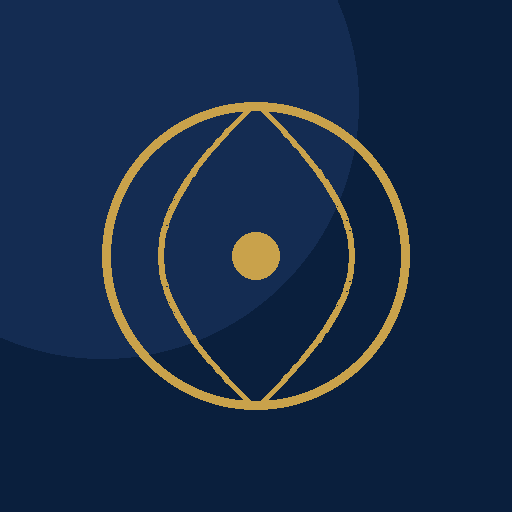
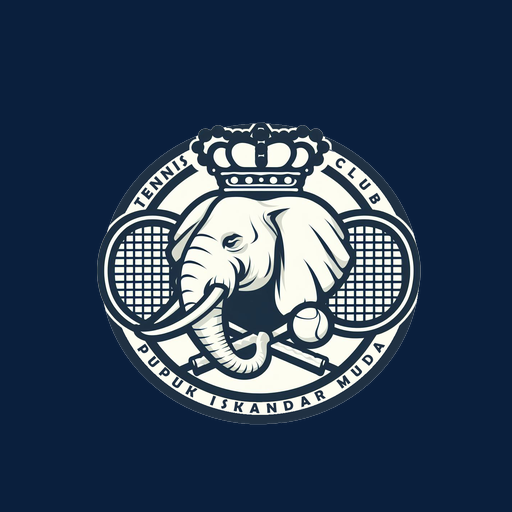
Add files via upload

Changed region(s): [[0.1875, 0.1875, 0.8438, 0.8438]]

diff --git a/js/app.js b/js/app.js
@@ -52,6 +52,7 @@ const getPlayoffs = () => fetchJSON("data/playoffs.json", "playoffs");
 const getLive = () => fetchJSON("data/live.json", "live");
 const getUpdates = () => fetchJSON("data/updates.json", "updates");
 const getLiveStandings = () => fetchJSON("data/live-standings.json", "liveStandings");
+const getSchedule = () => fetchJSON("data/schedule.json", "schedule");
 
 /* --------- Helpers --------- */
 function esc(str) {
@@ -171,7 +172,7 @@ async function renderHome() {
           <a class="ig-cta" id="homeIg" href="#" target="_blank" rel="noopener">Follow us on Instagram &rarr;</a>
         </div>
         <div>
-          <div class="about-photo"><div class="skeleton" style="height:100%"></div></div>
+          <div class="about-photo" id="aboutPhoto"><div class="skeleton" style="height:100%"></div></div>
           <div class="map-frame" id="mapFrame"></div>
         </div>
       </div>
@@ -183,6 +184,9 @@ async function renderHome() {
   document.getElementById("homeAbout").textContent = home.about || "";
   const ig = document.getElementById("homeIg");
   if (home.instagram) ig.href = home.instagram;
+  document.getElementById("aboutPhoto").innerHTML = home.photo
+    ? `<img src="${esc(home.photo)}" alt="${esc(home.name || "PIM Tennis Club")}" loading="lazy">`
+    : `<div class="about-photo-fallback"><img src="icons/logo.png" alt="PIMTC crest" width="140" height="140"></div>`;
   if (home.mapEmbed) {
     document.getElementById("mapFrame").innerHTML = `<iframe src="${esc(home.mapEmbed)}" loading="lazy" title="Club location"></iframe>`;
   }
@@ -334,8 +338,47 @@ function pairStandingsBlock(roundName, groups) {
     </div>`;
 }
 
+function scheduleTable(matches) {
+  const dated = matches.filter((m) => m.date).sort((a, b) => a.date.localeCompare(b.date));
+  const tbc = matches.filter((m) => !m.date);
+
+  const row = (m) => `
+    <tr>
+      <td>${m.date
+        ? `<span class="schedule-date">${esc(m.date)}${m.day ? `<span class="day">${esc(m.day)}</span>` : ""}</span>`
+        : `<span class="schedule-tbc-label">Date TBC</span>`}</td>
+      <td>${m.court ? `<span class="schedule-court">${esc(m.court)}</span>` : ""}</td>
+      <td><span class="schedule-match">${esc(m.team1)}<span class="vs">vs</span>${esc(m.team2)}</span></td>
+    </tr>`;
+
+  return `<table class="schedule-table">
+    <thead><tr><th>Date</th><th>Court</th><th>Match</th></tr></thead>
+    <tbody>${dated.map(row).join("")}${tbc.map(row).join("")}</tbody>
+  </table>`;
+}
+
+function catLabel(cat) {
+  if (cat === "men") return "Men's Tournament";
+  if (cat === "women") return "Women's Tournament";
+  return cat.charAt(0).toUpperCase() + cat.slice(1) + " Tournament";
+}
+
+function orderCats(cats) {
+  const priority = { men: 0, women: 1 };
+  return [...cats].sort((a, b) => (priority[a] ?? 2) - (priority[b] ?? 2) || a.localeCompare(b));
+}
+
+function tabBar(cats) {
+  return `<div class="tab-bar">
+    ${cats.map((c, i) => `<button class="tab-btn ${i === 0 ? "active" : ""}" data-cat="${esc(c)}">${esc(catLabel(c))}</button>`).join("")}
+  </div>`;
+}
+
 async function renderTournaments() {
   const app = document.getElementById("app");
+  const [data, standings] = await Promise.all([getTournaments(), getStandings()]);
+  const cats = orderCats(new Set([...Object.keys(data), ...Object.keys(standings)]));
+
   app.innerHTML = `
     <section class="section-dark section" style="padding-bottom:40px;">
       <div class="wrap">
@@ -345,15 +388,11 @@ async function renderTournaments() {
     </section>
     <section class="section">
       <div class="wrap">
-        <div class="tab-bar">
-          <button class="tab-btn active" data-cat="men">Men's Tournament</button>
-          <button class="tab-btn" data-cat="women">Women's Tournament</button>
-        </div>
+        ${tabBar(cats)}
         <div id="tournBody"><div class="skeleton" style="height:200px"></div></div>
       </div>
     </section>`;
 
-  const [data, standings] = await Promise.all([getTournaments(), getStandings()]);
   const body = document.getElementById("tournBody");
 
   function draw(cat) {
@@ -379,7 +418,9 @@ async function renderTournaments() {
     body.innerHTML = formatStats(fmt) + rulesHtml + standingsHtml;
   }
 
-  draw("men");
+  if (cats.length) draw(cats[0]);
+  else body.innerHTML = `<div class="state-msg">No tournaments published yet.</div>`;
+
   document.querySelectorAll(".tab-btn").forEach((btn) => {
     btn.addEventListener("click", () => {
       document.querySelectorAll(".tab-btn").forEach((b) => b.classList.remove("active"));
@@ -418,6 +459,9 @@ function bracketHTML(playoffs) {
 
 async function renderResults() {
   const app = document.getElementById("app");
+  const [data, playoffs] = await Promise.all([getResults(), getPlayoffs()]);
+  const cats = orderCats(new Set([...Object.keys(data), ...Object.keys(playoffs)]));
+
   app.innerHTML = `
     <section class="section">
       <div class="wrap">
@@ -425,15 +469,11 @@ async function renderResults() {
           <span class="eyebrow">Season Wrap</span>
           <h2>Tournament Results</h2>
         </div>
-        <div class="tab-bar">
-          <button class="tab-btn active" data-cat="men">Men's Tournament</button>
-          <button class="tab-btn" data-cat="women">Women's Tournament</button>
-        </div>
+        ${tabBar(cats)}
         <div id="resultsBody"><div class="skeleton" style="height:140px"></div></div>
       </div>
     </section>`;
 
-  const [data, playoffs] = await Promise.all([getResults(), getPlayoffs()]);
   const body = document.getElementById("resultsBody");
 
   function draw(cat) {
@@ -450,7 +490,9 @@ async function renderResults() {
     body.innerHTML = listHtml + (bracket ? `<div style="margin-top:36px;">${bracket}</div>` : "");
   }
 
-  draw("men");
+  if (cats.length) draw(cats[0]);
+  else body.innerHTML = `<div class="state-msg">No results published yet.</div>`;
+
   document.querySelectorAll(".tab-btn").forEach((btn) => {
     btn.addEventListener("click", () => {
       document.querySelectorAll(".tab-btn").forEach((b) => b.classList.remove("active"));
@@ -482,6 +524,15 @@ async function renderLive() {
         <div id="liveStandingsBody"><div class="skeleton" style="height:200px"></div></div>
       </div>
     </section>
+    <section class="section" style="padding-bottom:20px; padding-top:0;">
+      <div class="wrap">
+        <div class="section-head">
+          <span class="eyebrow">Match Schedule</span>
+          <h2>Upcoming Matches</h2>
+        </div>
+        <div id="scheduleBody"><div class="skeleton" style="height:160px"></div></div>
+      </div>
+    </section>
     <section class="section">
       <div class="wrap">
         <div class="section-head">
@@ -492,7 +543,7 @@ async function renderLive() {
       </div>
     </section>`;
 
-  const [live, updates, liveStandings] = await Promise.all([getLive(), getUpdates(), getLiveStandings()]);
+  const [live, updates, liveStandings, schedule] = await Promise.all([getLive(), getUpdates(), getLiveStandings(), getSchedule()]);
 
   document.getElementById("liveTitle").textContent = live.name || "Live Tournament";
   document.getElementById("liveDesc").textContent = live.description || "";
@@ -519,6 +570,11 @@ async function renderLive() {
   standingsBody.innerHTML = roundNames.length
     ? roundNames.map((name) => pairStandingsBlock(name, liveStandings[name])).join("")
     : `<div class="state-msg">Standings haven't been posted yet.</div>`;
+
+  const scheduleBody = document.getElementById("scheduleBody");
+  scheduleBody.innerHTML = schedule.length
+    ? scheduleTable(schedule)
+    : `<div class="state-msg">No matches scheduled yet.</div>`;
 
   const sorted = [...updates].sort((a, b) => {
     const d = String(b.date || "").localeCompare(String(a.date || ""));

diff --git a/css/style.css b/css/style.css
@@ -144,6 +144,11 @@ p{ line-height:1.65; color: rgba(18,24,31,0.75); }
 .about-grid{ display:grid; grid-template-columns: 1.1fr 0.9fr; gap: 50px; align-items:start; }
 .about-photo{ border-radius: 6px; overflow:hidden; box-shadow: var(--shadow); aspect-ratio: 4/3; background: var(--navy-soft); }
 .about-photo img{ width:100%; height:100%; object-fit:cover; }
+.about-photo-fallback{
+  width:100%; height:100%; display:flex; align-items:center; justify-content:center;
+  background: radial-gradient(120% 140% at 20% 0%, var(--navy-soft) 0%, var(--navy) 60%, var(--navy-deep) 100%);
+  color: var(--gold); opacity: 0.5;
+}
 .map-frame{ border-radius:6px; overflow:hidden; border:1px solid var(--line); margin-top:20px; }
 .map-frame iframe{ width:100%; height:260px; border:0; display:block; }
 
@@ -302,6 +307,20 @@ p{ line-height:1.65; color: rgba(18,24,31,0.75); }
 .embed-wrap.yt iframe{ position:absolute; inset:0; width:100%; height:100%; border:0; }
 .embed-wrap.photo img{ width:100%; border-radius:8px; box-shadow: var(--shadow); }
 .embed-wrap.ig blockquote.instagram-media{ margin:0 !important; }
+
+/* ---------- Match schedule ---------- */
+.schedule-table{ width:100%; border-collapse:collapse; }
+.schedule-table th{
+  text-align:left; font-family: var(--font-mono); font-size:10px; text-transform:uppercase; letter-spacing:1px;
+  color: rgba(18,24,31,0.45); padding: 8px 10px; border-bottom:1px solid rgba(18,24,31,0.1);
+}
+.schedule-table td{ padding: 11px 10px; font-size:14px; border-bottom:1px solid rgba(18,24,31,0.06); vertical-align:middle; }
+.schedule-date{ font-family: var(--font-display); font-weight:700; font-size:15px; white-space:nowrap; }
+.schedule-date .day{ display:block; font-family: var(--font-mono); font-size:10px; text-transform:uppercase; letter-spacing:1px; color: rgba(18,24,31,0.45); font-weight:400; }
+.schedule-court{ font-family: var(--font-mono); font-size:11px; color: var(--court-bright); text-transform:uppercase; letter-spacing:0.5px; white-space:nowrap; }
+.schedule-match{ font-family: var(--font-display); font-weight:600; font-size:16px; }
+.schedule-match .vs{ color: rgba(18,24,31,0.35); font-weight:400; margin: 0 6px; font-family: var(--font-mono); font-size:11px; text-transform:uppercase; }
+.schedule-tbc-label{ font-family: var(--font-mono); font-size:11px; color: rgba(18,24,31,0.4); text-transform:uppercase; letter-spacing:1px; }
 
 .result-list{ display:flex; flex-direction:column; gap:12px; }
 .result-row{

diff --git a/index.html b/index.html
@@ -7,7 +7,7 @@
 <meta name="description" content="Pupuk Iskandar Muda Tennis Club — rankings, tournaments, and results.">
 <meta name="theme-color" content="#0A1F3D">
 <link rel="manifest" href="manifest.json">
-<link rel="icon" href="icons/icon-192.png">
+<link rel="icon" href="icons/favicon-48.png">
 <link rel="apple-touch-icon" href="icons/icon-192.png">
 <link rel="preconnect" href="https://fonts.googleapis.com">
 <link rel="preconnect" href="https://fonts.gstatic.com" crossorigin>
@@ -24,11 +24,7 @@
   <div class="header-inner">
     <a href="#/home" class="brand">
       <span class="brand-mark">
-        <svg viewBox="0 0 40 40" width="34" height="34" aria-hidden="true">
-          <circle cx="20" cy="20" r="18" fill="none" stroke="currentColor" stroke-width="2"/>
-          <path d="M20 2 C 8 12, 8 28, 20 38" fill="none" stroke="currentColor" stroke-width="1.4"/>
-          <path d="M20 2 C 32 12, 32 28, 20 38" fill="none" stroke="currentColor" stroke-width="1.4"/>
-        </svg>
+        <img src="icons/logo.png" alt="PIMTC crest" width="42" height="42">
       </span>
       <span class="brand-text">PIM<b>TC</b></span>
     </a>

diff --git a/service-worker.js b/service-worker.js
@@ -1,4 +1,4 @@
-const CACHE_NAME = "pimtc-v5";
+const CACHE_NAME = "pimtc-v7";
 const APP_SHELL = [
   "./",
   "./index.html",
@@ -15,8 +15,11 @@ const APP_SHELL = [
   "./data/live.json",
   "./data/updates.json",
   "./data/live-standings.json",
+  "./data/schedule.json",
   "./icons/icon-192.png",
-  "./icons/icon-512.png"
+  "./icons/icon-512.png",
+  "./icons/logo.png",
+  "./icons/favicon-48.png"
 ];
 
 self.addEventListener("install", (event) => {

diff --git a/README.md b/README.md
@@ -48,13 +48,18 @@ rankings and tournament info editable from a spreadsheet:
    |---|---|---|---|---|---|---|---|---|
 
    **Home** (one data row)
-   | name | tagline | about | instagram | mapEmbed | lat | lng |
-   |---|---|---|---|---|---|---|
+   | name | tagline | about | photo | instagram | mapEmbed | lat | lng |
+   |---|---|---|---|---|---|---|---|
+   `photo` is a public image URL for the picture on the Home page. Leave blank
+   and the site shows a designed placeholder instead of a broken image.
 
    **TournamentRounds** (one row per bullet point)
    | category | roundOrder | roundName | point |
    |---|---|---|---|
-   category is `men` or `women`; roundOrder controls display order.
+   `category` isn't limited to `men`/`women` — any word works (e.g. `doubles`).
+   Whatever categories appear across TournamentRounds/Format/Standings/Playoffs/
+   Results automatically get their own tab on the Tournaments and Results pages,
+   no code changes needed. roundOrder controls display order.
 
    **Format** (one row per category)
    | category | players | sets | games | tiebreak |
@@ -89,6 +94,18 @@ rankings and tournament info editable from a spreadsheet:
    just paste the post/video URL — the site embeds it automatically. `order` is
    a plain number (1, 2, 3...) to break ties when you post more than one update
    on the same day; newest date+order shows first.
+
+   **LiveStandings** (one row per pair per round)
+   | round | group | ranking | pair | mp | w | l | gw | gl | diff | points |
+   |---|---|---|---|---|---|---|---|---|---|---|
+   `gw`/`gl` are games won/lost. `group` is required here since the live
+   doubles format is always grouped.
+
+   **Schedule** (one row per match)
+   | date | day | court | team1 | team2 |
+   |---|---|---|---|---|
+   `date` format is `YYYY-MM-DD`. Leave `date`/`day` blank for matches that
+   aren't scheduled yet — they'll show under "Date TBC" at the bottom of the list.
 
 2. Populate the sheet from your current roster (the `data/*.json`
    files in this project already contain everything currently on the
@@ -129,17 +146,43 @@ This is the day-to-day workflow once the Sheet is connected:
 For a text-only update (no media yet), leave `type` as `text` and the `url`
 column blank — it'll show as a caption-only card.
 
-When the tournament wraps up, flip `status` in the **Live** tab from
-`ongoing` to `completed` — the LIVE badge, Home page teaser, and nav dot
-all turn off automatically.
+When the tournament wraps up, see the migration steps below before flipping
+`status` to `completed` — the Live tab is a working/staging area, not the
+permanent archive.
 
-## 4. Editing the design
+## 4. When a Live tournament finishes: moving it into Tournaments/Results
+
+The **Live**/**Updates**/**LiveStandings**/**Schedule** tabs are built for
+exactly one *current* tournament at a time — they're a staging area, not a
+permanent record. The **Tournaments** and **Results** pages are the permanent
+archive, and they support any number of categories side by side (that's what
+the `category` column across TournamentRounds/Format/Standings/Playoffs/Results
+is for — it's plain text, not restricted to `men`/`women`).
+
+So once a live tournament (e.g. the doubles competition) is over:
+
+1. Add its final numbers as new rows in the permanent tabs, using a category
+   name for it (e.g. `doubles`):
+   - **Format**: one row, `category = doubles`, with its player/set/game/tiebreak info.
+   - **Standings**: copy the final rows from LiveStandings, with `category = doubles`.
+   - **Playoffs**: add the bracket if it had one, `category = doubles`.
+   - **Results**: a short summary per round, `category = doubles`.
+   - **TournamentRounds**: optional — only needed if you want the round-by-round
+     rules written out like the Singles tournament has.
+2. A new "Doubles Tournament" tab appears automatically on the Tournaments and
+   Results pages — no code changes, since those pages build their tabs from
+   whatever categories exist in the data.
+3. Either flip the **Live** tab's `status` to `completed` (keeps it visible on
+   the Live page, just without the LIVE badge/teaser), or overwrite the Live/
+   Updates/LiveStandings/Schedule tabs with the *next* live event when one starts.
+
+## 5. Editing the design
 
 All colors, type, and layout live in `css/style.css` under `:root` at
 the top (`--navy`, `--gold`, `--court`, fonts, etc.) — change values
 there rather than hunting through individual rules.
 
-## 5. Wiring up the Inquiry form
+## 6. Wiring up the Inquiry form
 
 The Inquiry page currently just shows a confirmation alert. To
 actually collect submissions, the simplest option is to point the
@@ -147,7 +190,7 @@ form at a Google Form (Form → Get pre-filled link, or embed the Form
 directly) or extend `apps-script/Code.gs` with a `doPost` handler that
 appends rows to an "Inquiries" tab.
 
-## 6. Local preview
+## 7. Local preview
 
 Any static file server works, e.g. from this folder:
 